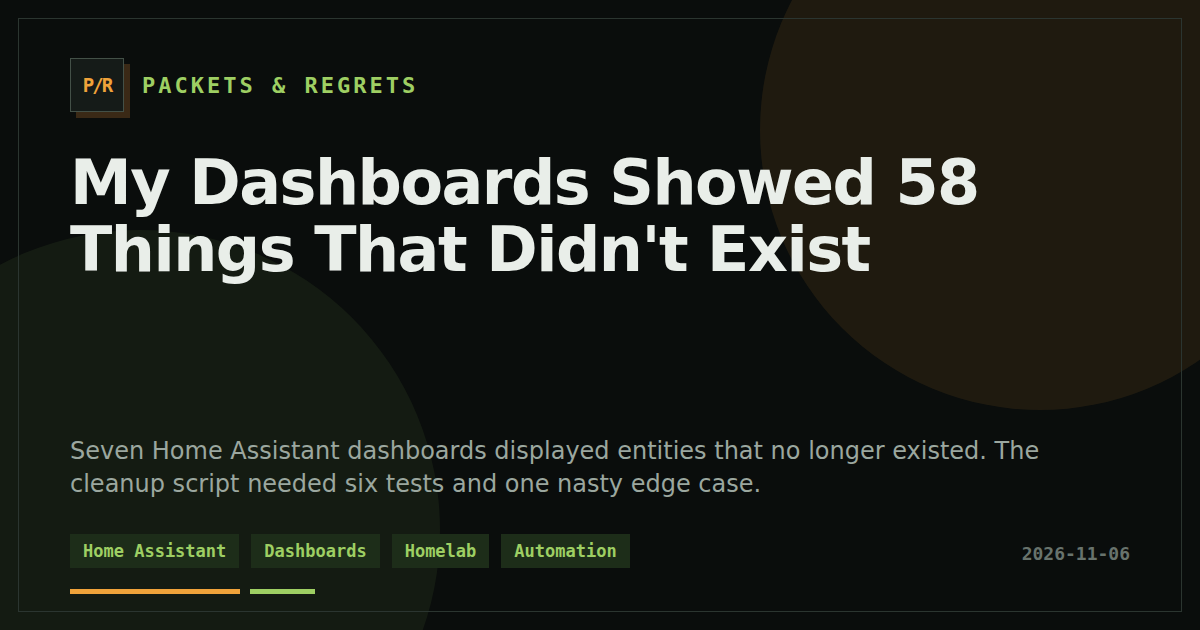
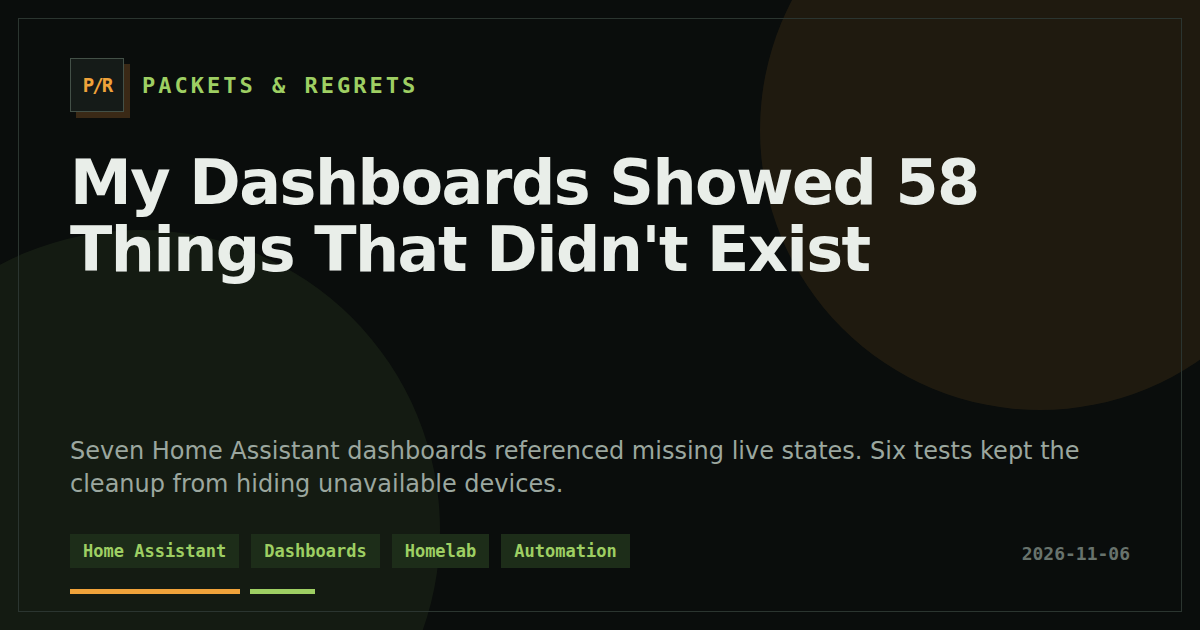
Publish: My Dashboards Showed 58 Things That Didn't Exist

Changed region(s): [[0.1233, 0.6937, 0.8942, 0.7841]]

diff --git a/content/posts/my-dashboards-showed-58-things-that-did-not-exist.md b/content/posts/my-dashboards-showed-58-things-that-did-not-exist.md
@@ -1,23 +1,23 @@
 ---
 title: "My Dashboards Showed 58 Things That Didn't Exist"
-description: "Seven Home Assistant dashboards displayed entities that no longer existed. The cleanup script needed six tests and one nasty edge case."
+description: "Seven Home Assistant dashboards referenced missing live states. Six tests kept the cleanup from hiding unavailable devices."
 date: 2026-11-06T15:51:00+01:00
-draft: true
+draft: false
 categories: ["Lab Notes"]
 tags: ["Home Assistant", "Dashboards", "Homelab", "Automation", "Testing"]
 ---
 
 I have written a lot lately about monitoring that [stayed green while things were dead](/posts/nothing-was-red-and-three-things-were-dead/) and a watchdog that [restarted a recorder 141 times on a guess](/posts/my-watchdog-restarted-my-nvr-141-times/). This week's is the dumb little cousin of both: a pile of dashboards that kept **showing me things that were not there**.
 
-Not broken things. Not offline things. Things that don't exist. Tiles pointing at entities Home Assistant has no record of, sitting on dashboards I look at on purpose, being confidently wrong at me.
+Not broken things. Not offline things. Things that don't exist. Tiles pointing at entity IDs absent from Home Assistant's live states, sitting on dashboards I look at on purpose, being confidently wrong at me.
 
 ## The count
 
-On November 3 I wrote a small script that asks Home Assistant for every entity that currently exists, then walks every dashboard config looking for references to entities that aren't in that list. First run, preview mode, no writes.
+On November 3 I wrote a small script that asks Home Assistant for its current entity states, then walks every dashboard config looking for references to entities that aren't in that list. First run, preview mode, no writes.
 
-The registered dashboards: ten. Dashboards with at least one reference to a nonexistent entity: **seven**. Total references removed: 111. Unique missing entities: **58**.
+The registered dashboards: ten. Dashboards with at least one reference absent from those states: **seven**. Counting each missing ID once per dashboard: **111 dashboard/entity references**. Unique missing entity IDs across them: **58**.
 
-That's from the result file the script wrote before it touched anything. Per dashboard, the worst one had 40 ghost references and another had 39. Two of the seven were my curated ones. The other five were older generations I'd already marked "superseded" and then, being a coward, never removed.
+That's from the saved pre-cleanup configurations and the cleanup result file. Per dashboard, the worst one had 40 distinct missing IDs and another had 39. Two of the seven were my curated ones. The other five were older generations I'd already marked "superseded" and then, being a coward, never removed.
 
 What were the ghosts? Sorted by name pattern, nothing cleverer:
 
@@ -40,12 +40,14 @@ This is the part where the script could have been a disaster, and the reason the
 
 Home Assistant has two different failure shapes:
 
-- **Missing**: the entity ID isn't in `get_states` at all. Nothing is there to be broken.
-- **Unavailable**: the entity exists, and its state is literally `unavailable`. A device is offline. That's a *real outage*.
+- **Missing**: the entity ID isn't in `get_states` at all. There is no current state for that tile to display.
+- **Unavailable**: the entity exists in the state list, and its state is literally `unavailable`. A device or integration isn't supplying a usable reading. That's a live problem to investigate, not a stale reference to tidy away.
+
+Missing from states does **not** prove an entity was permanently deleted. Disabled entities can lack a state, and an integration can be temporarily absent. This script doesn't establish the history. That's why preview and human review matter: an absent ID is a cleanup candidate, not a death certificate.
 
 The naive cleanup is "remove everything that looks red." That would have deleted exactly the tiles whose job is to tell me a purifier fell off Wi-Fi. So the rule is: **presence in `get_states` is the test, not the state value.** An entity that's present and unavailable stays on the dashboard. The script only removes references to entities that are absent from the list.
 
-And there's a legacy air quality view that still shows unavailable purifier sensors. It's still there after the cleanup. That's deliberate. Those sensors exist; they're just offline. A cleanup that makes the offline thing disappear is not a cleanup, it's a cover-up.
+And there's a legacy air quality view that still shows unavailable purifier sensors. It's still there after the cleanup. That's deliberate. Those sensors still have state entries; some readings are unavailable. A cleanup that makes the offline thing disappear is not a cleanup, it's a cover-up.
 
 ## Regret 3: deleting one tile can change what a card *does*
 
@@ -57,7 +59,7 @@ The helper has six unit tests. In plain English:
 
 1. A missing tile is removed; an existing one is kept; the input isn't mutated.
 2. A present-but-unavailable entity is preserved.
-3. Entity lists and badges are pruned entry by entry.
+3. An entity list is pruned entry by entry.
 4. A missing condition never turns a conditional card unconditional.
 5. A container left empty (and a heading left with nothing under it) is removed.
 6. Running it twice changes nothing.
@@ -80,7 +82,7 @@ After applying, the notes record an API readback with no missing references acro
 
 Writing this, I ran the script again in preview mode from a scratch copy, so nothing in the repo moved and nothing was applied. Three days after the cleanup it found **two dashboards with one new ghost each**: the same missing update entity, referenced on a maintenance dashboard and on an older media-ops one.
 
-I don't know why that entity is gone. I haven't looked, and I'm not going to claim a cause. The point stands without one: **dashboards rot as the system under them changes, and a cleanup is a snapshot, not a state.** I cleaned house and 72 hours later a new thing walked out of it.
+I don't know why that entity is gone. I haven't looked, and I'm not going to claim a cause. The point stands without one: **dashboards rot as the system under them changes, and a cleanup is a snapshot, not a state.** I cleaned house and three days later a new thing walked out of it.
 
 I left it alone. It's a single tile, and the script already refuses to touch anything I haven't asked it to.
 
@@ -92,10 +94,10 @@ I left it alone. It's a single tile, and the script already refuses to touch any
 
 ## If you want to copy it
 
-- Treat "entity not in states" and "entity unavailable" as different events with different owners. One is your config's fault. The other is the device's.
+- Treat "entity not in states" and "entity unavailable" as different events with different owners. One is a reference to review. The other is a live device or integration problem to investigate.
 - Preview first, back up always, apply on request. A dashboard config is state, and state needs a rollback.
 - Conditions are guards. Deleting the guard is not deleting the guarded thing.
 - Write the idempotence test. If running your cleanup twice changes something, you have a different bug.
 - Put the check on a schedule or accept that the ghosts come back. I haven't done the schedule. Writing "I should" in a blog post is, I'm told, how most automation starts.
 
-Fifty-eight things that didn't exist, and I looked at them every day. Ricky Gervais would say that's just most meetings. I'd say it's a dashboard, and I'm the one who built it.
+Fifty-eight things absent from live states, on dashboards I kept around. Ricky Gervais would say that's just most meetings. I'd say it's a dashboard, and I'm the one who built it.

diff --git a/README.md b/README.md
@@ -25,6 +25,8 @@ Public URL: <https://blog.zezelj.org>
 
 - [I Stopped Being My Homelab's Sysadmin. Now I Manage One.](https://blog.zezelj.org/posts/i-stopped-being-my-homelabs-sysadmin-now-i-manage-one/) — delegated execution, retained judgment, evidence-bound acceptance, and no invented productivity multiplier
 
+- [My Dashboards Showed 58 Things That Didn't Exist](https://blog.zezelj.org/posts/my-dashboards-showed-58-things-that-did-not-exist/) — absent versus unavailable entities, guarded dashboard cleanup, and a fresh ghost three days later
+
 ## Local development
 
 Requires Hugo Extended 0.164.0 or newer.
